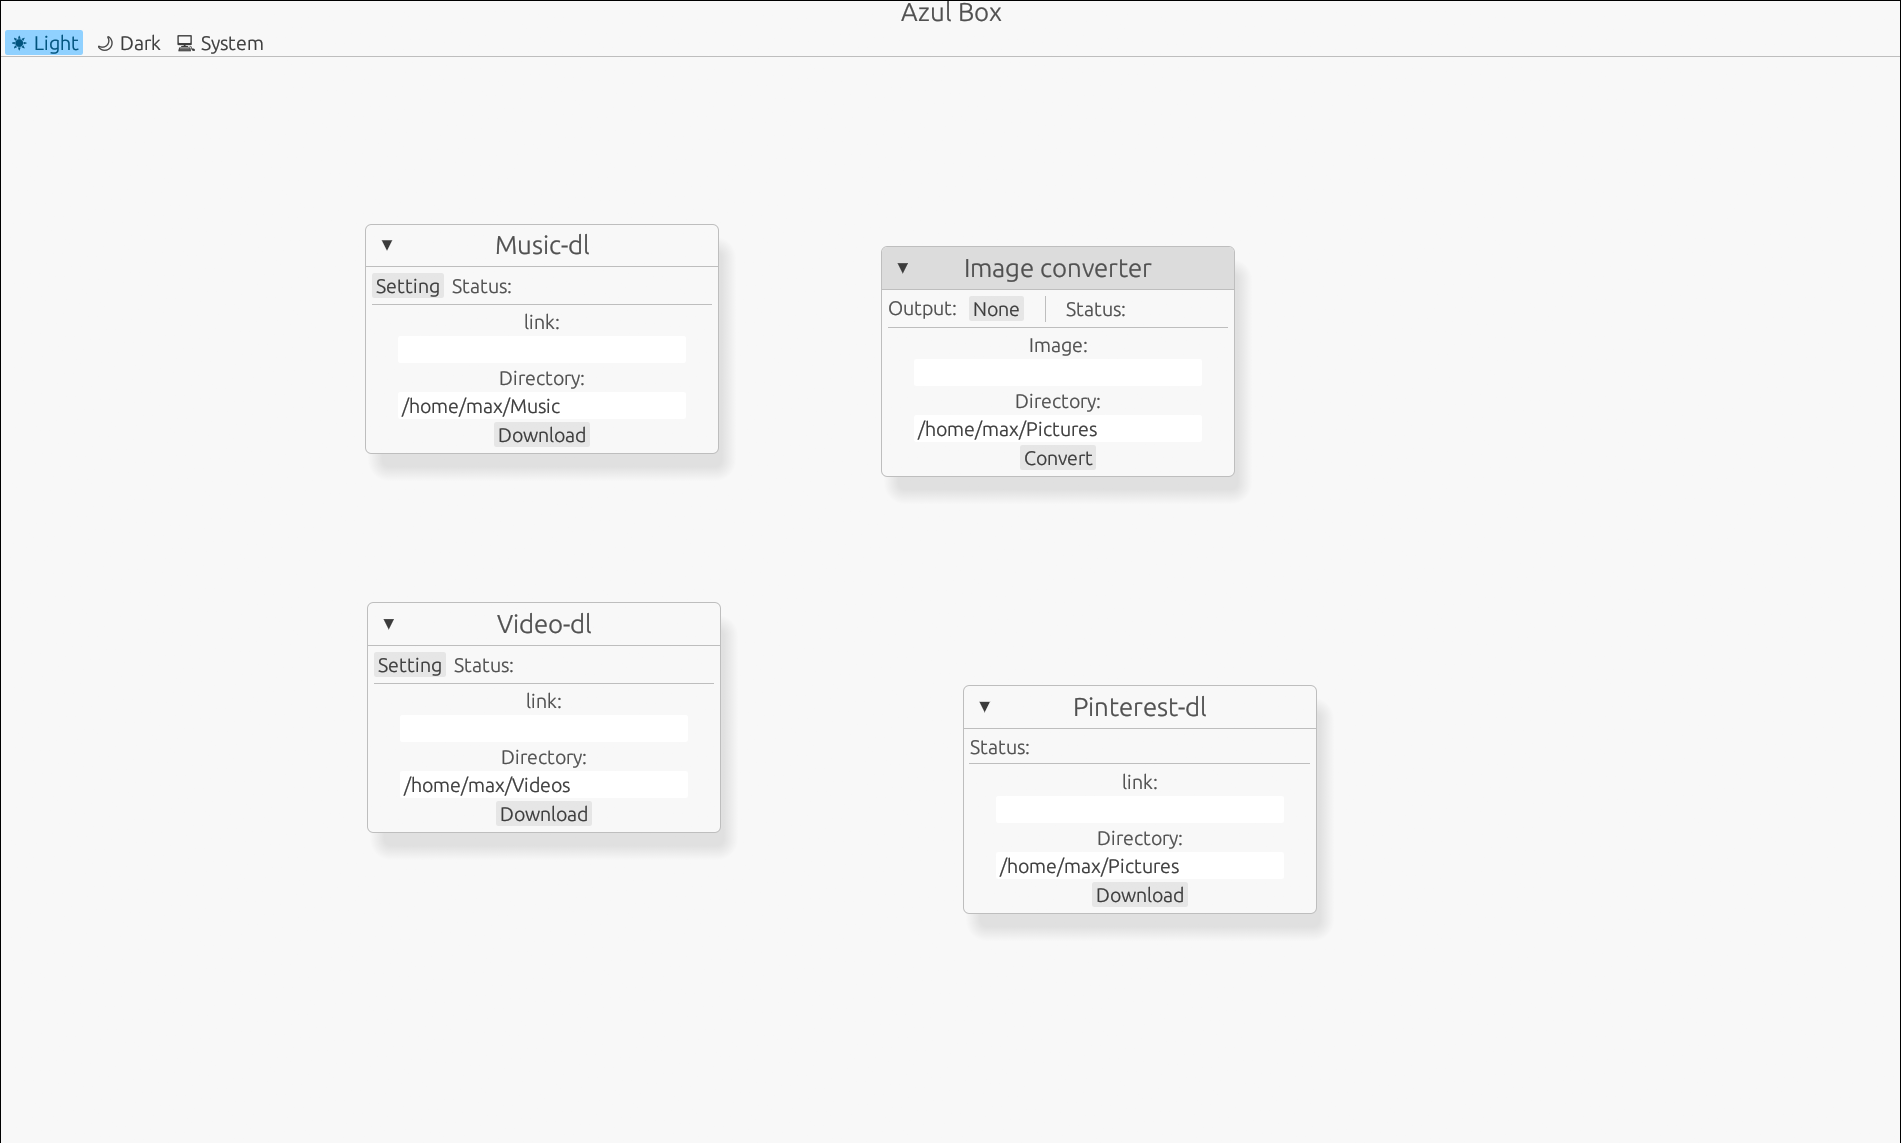
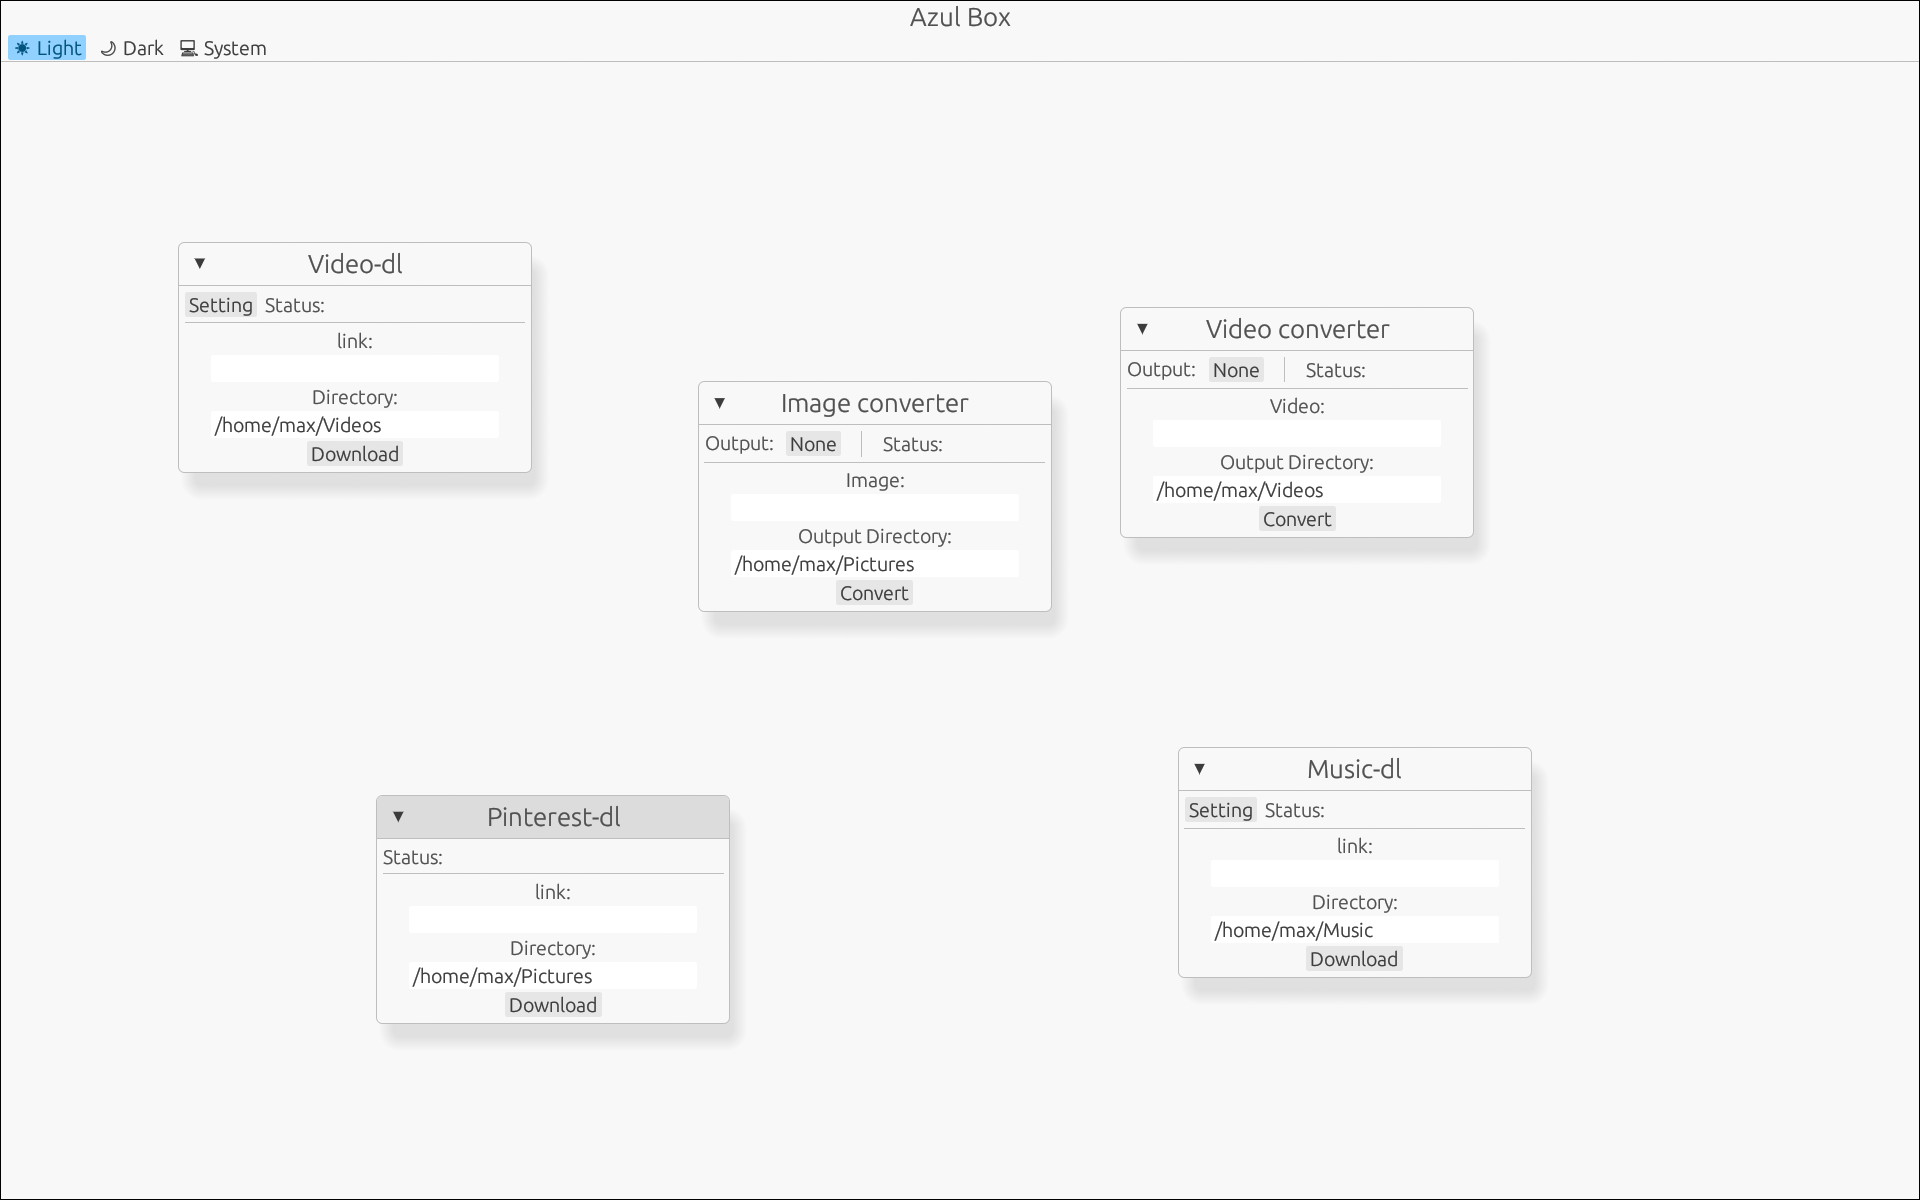
Video convertor

diff --git a/src/ui/video_convert.rs b/src/ui/video_convert.rs
@@ -4,7 +4,7 @@ use std::sync::Arc;
 use std::sync::atomic::{AtomicBool, Ordering};
 use tokio::process::Command;
 
-pub struct ImgConvert {
+pub struct VideoConvert {
     pub out_directory: String,
     pub status_complete: Arc<AtomicBool>,
     pub status_pending: Arc<AtomicBool>,
@@ -13,9 +13,9 @@ pub struct ImgConvert {
     pub input_file: String,
 }
 
-impl Default for ImgConvert {
+impl Default for VideoConvert {
     fn default() -> Self {
-        let default_directory = dirs::picture_dir()
+        let default_directory = dirs::video_dir()
             .map(|path| path.to_string_lossy().into_owned())
             .unwrap_or_else(|| String::from(""));
         Self {
@@ -29,7 +29,7 @@ impl Default for ImgConvert {
     }
 }
 
-impl ImgConvert {
+impl VideoConvert {
     fn reset_download_status(&mut self) {
         self.status_complete.store(false, Ordering::Relaxed);
         self.status_pending.store(false, Ordering::Relaxed);
@@ -60,14 +60,23 @@ impl ImgConvert {
             ui.horizontal_wrapped(|ui| {
                 ui.label("Output: ");
                 ui.menu_button(self.format_out.clone(), |ui| {
-                    self.format_out_button(ui, "jpg");
-                    self.format_out_button(ui, "png");
-                    self.format_out_button(ui, "bmp");
-                    self.format_out_button(ui, "tif");
+                    self.format_out_button(ui, "mp4");
+                    self.format_out_button(ui, "avi");
+                    self.format_out_button(ui, "mkv");
+                    self.format_out_button(ui, "mov");
+                    self.format_out_button(ui, "wmv");
+                    self.format_out_button(ui, "flv");
+                    self.format_out_button(ui, "webm");
+                    self.format_out_button(ui, "mpg");
+                    self.format_out_button(ui, "3gp");
+                    self.format_out_button(ui, "ogv");
+                    self.format_out_button(ui, "m4v");
+                    self.format_out_button(ui, "asf");
+                    self.format_out_button(ui, "vob");
+                    self.format_out_button(ui, "ts");
+                    self.format_out_button(ui, "f4v");
+                    self.format_out_button(ui, "dv");
                     self.format_out_button(ui, "gif");
-                    self.format_out_button(ui, "webp");
-                    self.format_out_button(ui, "heic");
-                    self.format_out_button(ui, "avif");
                 });
             });
             ui.add_space(10.0);
@@ -82,7 +91,7 @@ impl ImgConvert {
         });
         ui.separator();
         ui.vertical_centered(|ui| {
-            let link_label = ui.label("Image: ");
+            let link_label = ui.label("Video: ");
             if ui
                 .text_edit_singleline(&mut self.input_file)
                 .labelled_by(link_label.id)
@@ -91,10 +100,10 @@ impl ImgConvert {
                 let path = DialogBuilder::file()
                     .set_location(&self.out_directory)
                     .add_filter(
-                        "Images",
+                        "Video",
                         &[
-                            "jpg", "jpeg", "png", "bmp", "tif", "tiff", "gif", "webp", "heic",
-                            "heif", "cr2", "nef", "dng", "svg", "psd", "avif",
+                            "mp4", "avi", "mkv", "mov", "wmv", "flv", "webm", "mpeg", "mpg", "3gp",
+                            "ogv", "m4v", "asf", "vob", "ts", "f4v", "dv",
                         ],
                     )
                     .open_single_file()
@@ -155,8 +164,6 @@ async fn download(input: String, directory: String, format_out: String) {
     let output = Command::new("ffmpeg")
         .arg("-i")
         .arg(&input)
-        .arg("-q:v")
-        .arg("100")
         .arg(format!("{}.{}", filename, format_out))
         .current_dir(directory)
         .output()

diff --git a/src/main.rs b/src/main.rs
@@ -13,11 +13,7 @@ async fn main() -> eframe::Result {
     eframe::run_native(
         "Azul box",
         options,
-        Box::new(|cc| {
-            egui_extras::install_image_loaders(&cc.egui_ctx);
-
-            Ok(Box::<MyApp>::default())
-        }),
+        Box::new(|_cc| Ok(Box::<MyApp>::default())),
     )
 }
 
@@ -26,6 +22,7 @@ struct MyApp {
     video_download: ui::video::VideoDownload,
     pinterest_download: ui::pinterest::PinterstDownload,
     image_convert: ui::img_convert::ImgConvert,
+    video_convert: ui::video_convert::VideoConvert,
 }
 
 impl Default for MyApp {
@@ -35,6 +32,7 @@ impl Default for MyApp {
             video_download: ui::video::VideoDownload::default(),
             pinterest_download: ui::pinterest::PinterstDownload::default(),
             image_convert: ui::img_convert::ImgConvert::default(),
+            video_convert: ui::video_convert::VideoConvert::default(),
         }
     }
 }
@@ -87,11 +85,19 @@ impl eframe::App for MyApp {
             .show(ctx, |ui| {
                 self.pinterest_download.ui(ui);
             });
+        //Img convert
         egui::Window::new("Image converter")
             .default_open(false)
             .resizable(false)
             .show(ctx, |ui| {
                 self.image_convert.ui(ui);
+            });
+        //Video convert
+        egui::Window::new("Video converter")
+            .default_open(false)
+            .resizable(false)
+            .show(ctx, |ui| {
+                self.video_convert.ui(ui);
             });
     }
 }

diff --git a/src/ui/music.rs b/src/ui/music.rs
@@ -44,10 +44,12 @@ impl MusicDownload {
                 .clicked()
             {
                 self.format = numbername;
+                ui.close_menu();
             };
         } else {
             if ui.button(name).clicked() {
                 self.format = numbername;
+                ui.close_menu();
             };
         }
     }

diff --git a/src/ui/video.rs b/src/ui/video.rs
@@ -44,10 +44,12 @@ impl VideoDownload {
                 .clicked()
             {
                 self.format = numbername;
+                ui.close_menu();
             };
         } else {
             if ui.button(name).clicked() {
                 self.format = numbername;
+                ui.close_menu();
             };
         }
     }

diff --git a/src/ui/mod.rs b/src/ui/mod.rs
@@ -2,3 +2,4 @@ pub mod img_convert;
 pub mod music;
 pub mod pinterest;
 pub mod video;
+pub mod video_convert;

diff --git a/README.md b/README.md
@@ -6,7 +6,8 @@
 - Download music from link with metadata/cover embedded
 - Download Video from link with highest quality with some metadata embeded
 - Download Pin from pinterest without account
-- Convert Images formats
+- Convert Images formats powered by ffmpeg
+- Convert Video formats powered by ffmpeg
 
 The video/music download will technically support all yt-dlp [support list](https://github.com/yt-dlp/yt-dlp/blob/master/supportedsites.md) not just youtube.
 
@@ -61,6 +62,6 @@ sudo chmod +x install.sh
 ## Images
 
 <div align="center">
-<img src="./assets/pic1.png" width="350"></img>
-<img src="./assets/pic2.png" width="350"></img>
+<img src="./assets/pic1.png" width="450"></img>
+<img src="./assets/pic2.png" width="450"></img>
 </div>
